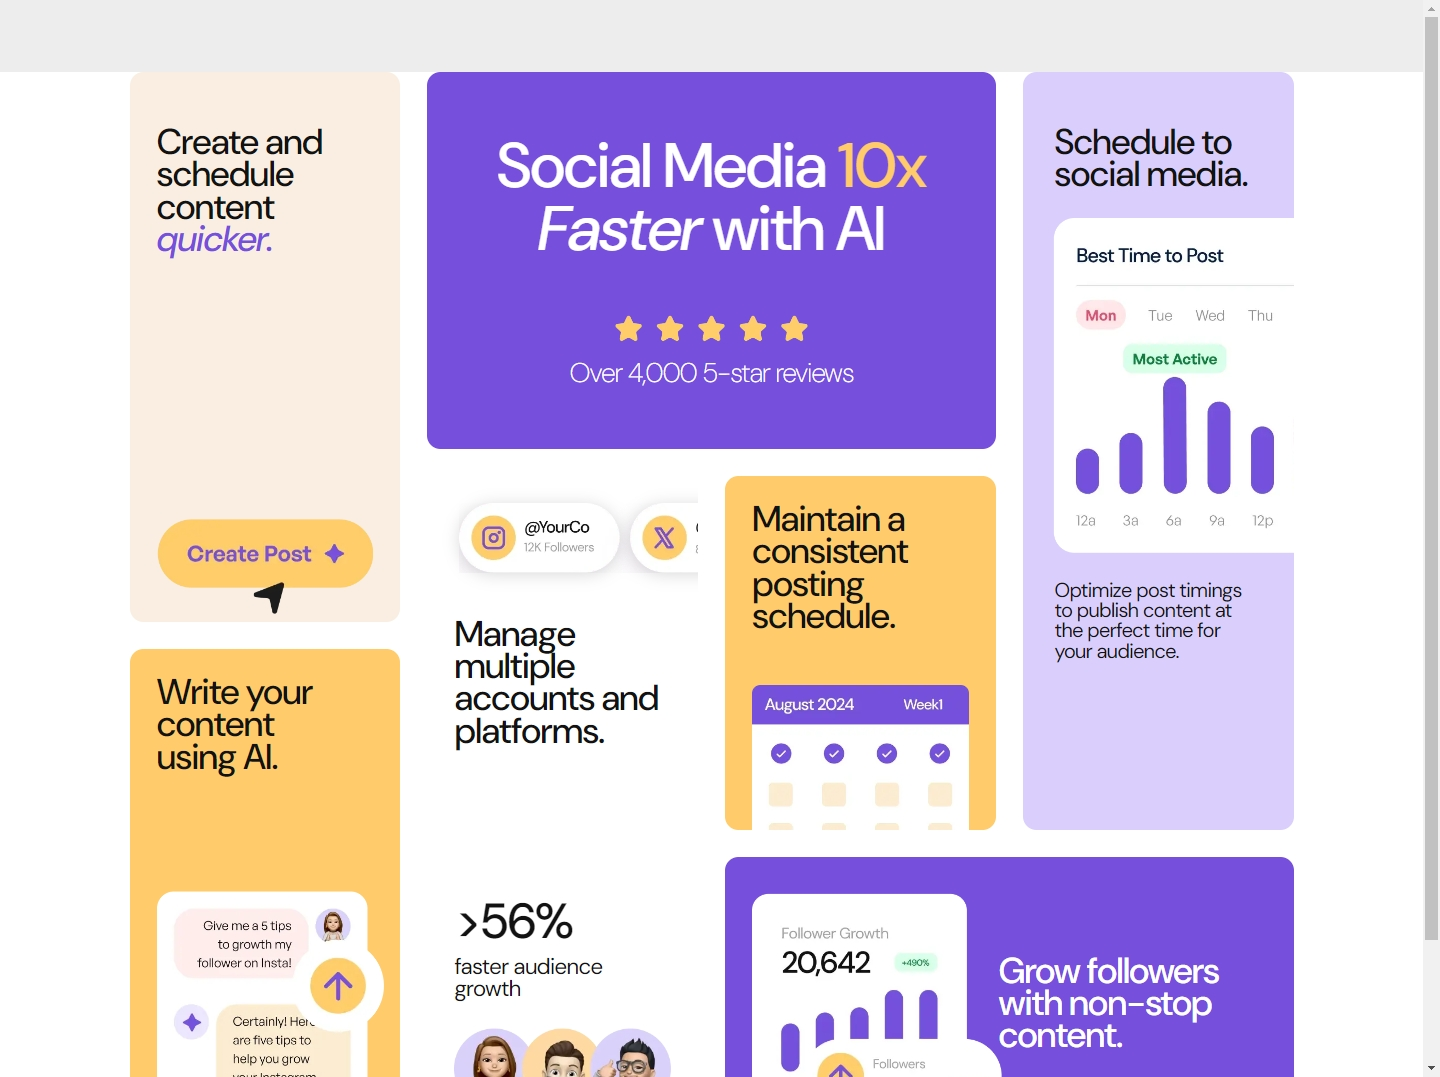
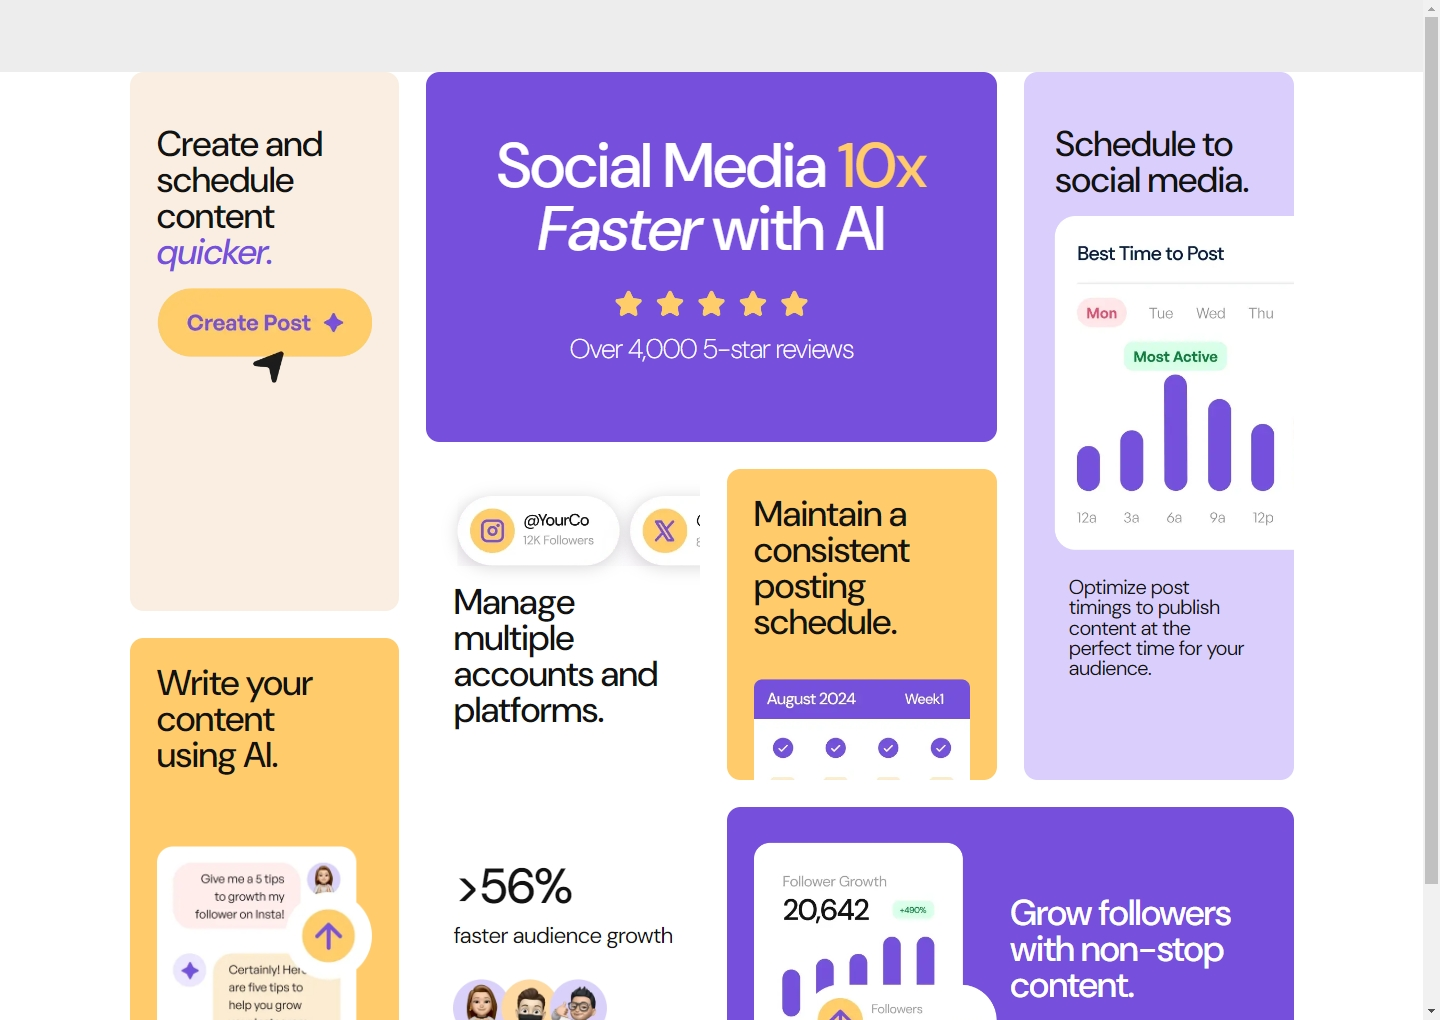
updated sr-only class for compatibilty with modern browsers and updated preview images

diff --git a/src/main.scss b/src/main.scss
@@ -18,7 +18,9 @@
   padding: 0;
   margin: -1px;
   overflow: hidden;
+  // 'clip' is deprecated, use as fallback for older browsers, so for modern browsers use clip-path
   clip: rect(0, 0, 0, 0);
+  clip-path: inset(50%);
   white-space: nowrap;
   border-width: 0;
 }
